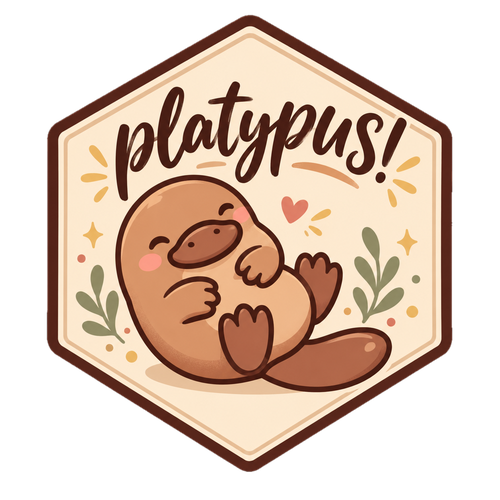
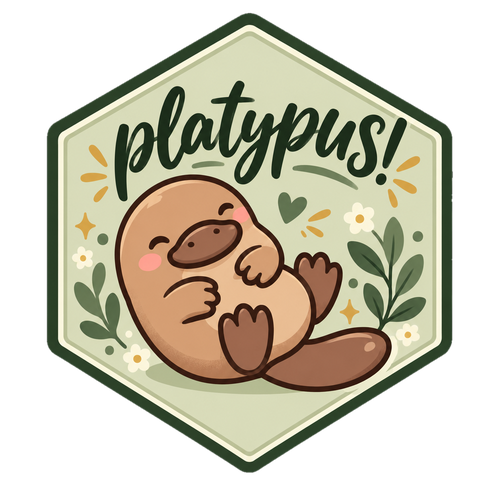
The sticker goes green, and the palette is re-derived from it
The author's third hexsticker: the same platypus, the field inside the hexagon changed
from cream to sage green, the border and the lettering dark green. Same transform as v2 -
500x500 RGBA, the black field flood filled from the border rather than thresholded, the
antialiased rim un-premultiplied so it carries no dark fringe on a white page.

The palette is derived from the image rather than chosen. Seven clusters by k-means over
its 138,530 opaque pixels, with a second seed as the control that a centre is a colour of
the image and not of the run:

    sage   #d9dbba   37.0%   the field inside the hexagon
    green  #33442b   12.7%   the border and the lettering
    brown  #8a7053   11.3%   the platypus
    tan    #d49d6e   11.3%   its lighter half
    cream  #faf6dd    5.8%   the inner rim and the flowers

Contrast against white decides the roles, which is what `_brand.yml` has always said it
does: green 10.5 carries every link as `primary`, where the brown it replaces was 12.7 -
the same class, so nothing gets harder to read. Brown at 4.6 is `secondary` and must not
carry body text however legal that is. Sage at 1.4 becomes `light`, the callout tint,
replacing cream at 1.1 - which is not a tint but a rounding error.

`terracotta` is gone rather than recoloured: there is nothing in its region of v3, so
keeping the key would have meant inventing a colour to fill it. `ink` stays neutral and is
[…]

diff --git a/tests/test_brand_contrast.py b/tests/test_brand_contrast.py
@@ -1,0 +1,91 @@
+"""The contrast ratios `_brand.yml` writes down, recomputed from the colours it declares.
+
+A contrast ratio is a measured number in prose, and CLAUDE.md §3C says such a number needs
+something holding it to the measurement or it should not be written. Nothing held this one:
+the table in that file was wrong in three of its four rows from the day it was written -
+brown 11.8 against 12.7, terracotta 3.7 against 3.4, tan 2.6 against 2.4 - and nothing
+noticed, because every conclusion drawn from it happened to survive the error.
+
+That is the shape this project keeps paying for: an error that changes no decision is an
+error nobody looks for. The table decides which colour may carry a link, so the next one
+that is wrong might change one.
+"""
+
+from __future__ import annotations
+
+import re
+from pathlib import Path
+
+import pytest
+import yaml
+
+BRAND = Path(__file__).resolve().parents[1] / "_brand.yml"
+
+#: The four values the WCAG definition fixes, which is this test's own control: a formula
+#: that gets these right is the formula, and one that does not cannot judge anything else.
+KNOWN = {"#000000": 21.00, "#ffffff": 1.00, "#767676": 4.54, "#595959": 7.00}
+
+
+def contrast_on_white(colour: str) -> float:
+    """The WCAG 2.x ratio of `colour` against white.
+
+    Written out rather than imported so that the test does not inherit the error it exists
+    to catch from whatever wrote the table.
+    """
+    channels = [int(colour[i : i + 2], 16) / 255 for i in (1, 3, 5)]
+    linear = [c / 12.92 if c <= 0.03928 else ((c + 0.055) / 1.055) ** 2.4 for c in channels]
+    luminance = 0.2126 * linear[0] + 0.7152 * linear[1] + 0.0722 * linear[2]
+    return 1.05 / (luminance + 0.05)
+
+
+@pytest.mark.parametrize(("colour", "ratio"), sorted(KNOWN.items()))
+def test_the_formula_is_the_formula(colour: str, ratio: float):
+    """The control, first: these four are fixed by the definition rather than by taste."""
+    assert contrast_on_white(colour) == pytest.approx(ratio, abs=0.01)
+
+
+def _declared() -> tuple[dict[str, str], list[tuple[str, str, float]]]:
+    text = BRAND.read_text()
+    palette = yaml.safe_load(text)["color"]["palette"]
+    # The rows of the CONTRAST table: a name, its hex, and the ratio the file claims.
+    #
+    # The negative lookahead is not decoration. This file carries a second table of the same
+    # shape - the cluster shares the palette was derived from - and without it this regex
+    # read `sage #d9dbba 37.0%` as a contrast ratio of 37. An instrument that matches the
+    # wrong table answers a question nobody asked, which is the first thing to suspect when
+    # a check fails on something that looks right.
+    rows = re.findall(r"^#\s+(\w+)\s+(#[0-9a-f]{6})\s+(\d+\.\d)(?!%)\s", text, re.MULTILINE)
+    return palette, [(name, colour, float(ratio)) for name, colour, ratio in rows]
+
+
+def test_every_ratio_the_brand_file_writes_down_is_the_one_it_would_measure():
+    """And the colours in the table are the colours in the palette, not near-misses of them."""
+    palette, rows = _declared()
+    assert rows, "no contrast table found in _brand.yml; the regex is the instrument here"
+
+    for name, colour, claimed in rows:
+        assert name in palette, f"the table names {name!r}, which the palette does not define"
+        assert palette[name] == colour, (
+            f"the table gives {name} as {colour} and the palette as {palette[name]}"
+        )
+        assert contrast_on_white(colour) == pytest.approx(claimed, abs=0.05), (
+            f"{name} {colour} is {contrast_on_white(colour):.2f} against white and the file "
+            f"says {claimed}"
+        )
+
+
+def test_the_colour_that_carries_links_clears_the_threshold_it_is_chosen_for():
+    """`primary` is what every link is drawn in, so 4.5 is a constraint and not a target."""
+    palette, _ = _declared()
+    brand = yaml.safe_load(BRAND.read_text())["color"]
+    primary = palette[brand["primary"]]
+    assert contrast_on_white(primary) >= 4.5, (
+        f"`primary` is {brand['primary']} {primary} at {contrast_on_white(primary):.2f} "
+        "against white, which is below what body text needs"
+    )
+
+    # And the one the file says must NOT carry a link, so that the rule is asserted from
+    # both ends rather than only the comfortable one.
+    assert contrast_on_white(palette["tan"]) < 4.5, (
+        "tan clears 4.5 now, so the sentence saying it must not carry a link is stale"
+    )
